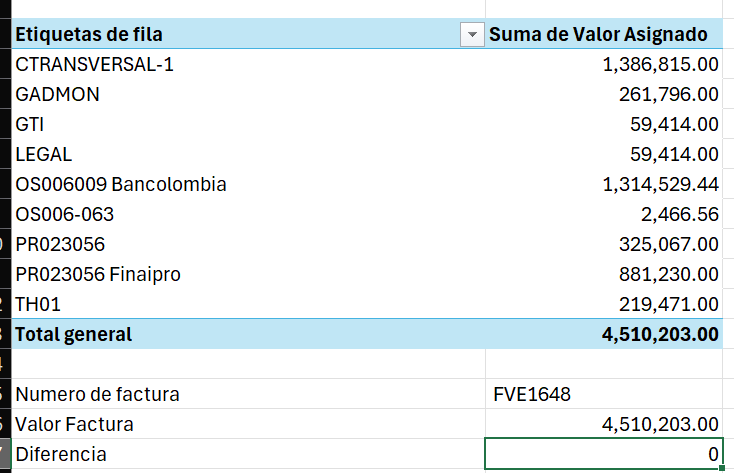
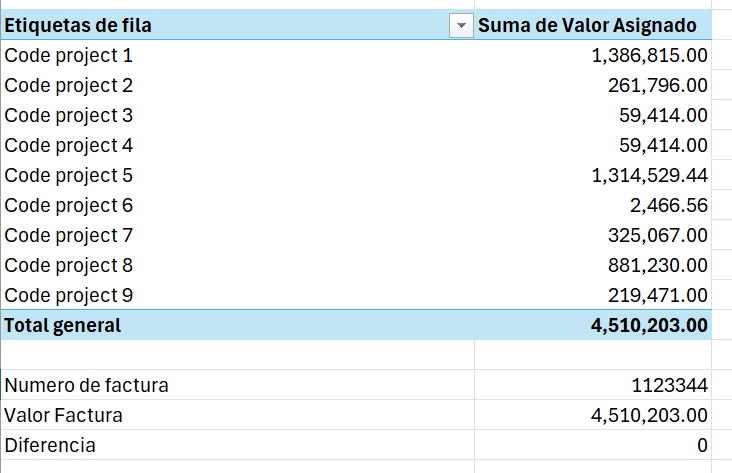
Enhanced README and portfolio presentation

Changed region(s): [[0.0, 0.0, 1.0, 1.0], [0.6311, 0.7696, 0.9918, 1.0]]

diff --git a/README.md b/README.md
@@ -1,3 +1,10 @@
+<<<<<<< HEAD
+=======
+<<<<<<< HEAD
+`````md
+=======
+>>>>>>> 88e778e (Enhanced README and portfolio presentation)
+>>>>>>> 84fb516 (Enhanced README and portfolio presentation)
 # Technology Cost Allocation Automation
 
 ## Overview
@@ -11,6 +18,7 @@ The solution automated the allocation of cybersecurity, backup, monitoring, emai
 ## Business Context
 
 The organization managed multiple technology services and software licensing agreements, including cybersecurity, backup, monitoring, email security, and managed services.
+<<<<<<< HEAD
 
 Invoice validation and cost allocation activities were performed manually using multiple spreadsheets, requiring significant analyst effort and introducing operational risks associated with data entry, calculation errors, and inconsistent cost center assignments.
 
@@ -99,6 +107,106 @@ The solution supports allocation and validation activities related to:
 
 The solution incorporates multiple governance mechanisms including:
 
+<<<<<<< HEAD
+=======
+- Automated cost allocation rules.
+- Standardized data processing.
+- Cost center validation.
+- Centralized reporting.
+- Allocation traceability.
+- Consolidated technology expenditure visibility.
+- Financial review support.
+- Operational risk reduction.
+=======
+
+Invoice validation and cost allocation activities were performed manually using multiple spreadsheets, requiring significant analyst effort and introducing operational risks associated with data entry, calculation errors, and inconsistent cost center assignments.
+
+The objective of the project was to standardize and automate the allocation process while improving reporting capabilities and financial oversight.
+
+---
+
+## Solution Architecture
+
+```text
+Technology Service Provider
+            │
+            ▼
+     Supplier Invoice
+            │
+            ▼
+  Technology Inventory Import
+            │
+            ▼
+ User & Cost Center Mapping
+            │
+            ▼
+ Automated Allocation Engine
+            │
+            ▼
+ Data Quality Controls
+            │
+            ▼
+ Multi-Service Consolidation
+            │
+            ▼
+ Prefactura Generation
+            │
+            ▼
+ Cost Center Summary
+            │
+            ▼
+ Financial Validation
+```
+
+---
+
+## Project Outcomes
+
+* Reduced invoice validation effort from approximately 60 minutes to 10 minutes.
+* Improved allocation accuracy through automated cost center mapping.
+* Reduced dependency on manual calculations.
+* Increased traceability of technology-related expenses.
+* Improved financial governance and reporting consistency.
+* Consolidated multiple technology services into a unified reporting model.
+* Reduced operational errors associated with manual processing.
+* Improved visibility of technology spending by cost center.
+
+---
+
+## Services Included
+
+The solution supports allocation and validation activities related to:
+
+* Sophos Advanced Protection
+* Sophos Encryption
+* Sophos Email Security
+* COVE Backup
+* Remote Monitoring and Management (RMM)
+* Professional Services
+* Technology Assets under Leasing/Renting Models
+
+---
+
+## Key Technologies
+
+* Microsoft Excel
+* VBA (Visual Basic for Applications)
+* Cost Center Allocation
+* IT Asset Management
+* Financial Controls
+* Reporting Automation
+* Process Automation
+* Data Quality Controls
+* Technology Governance
+* Internal Controls
+
+---
+
+## Governance and Control Features
+
+The solution incorporates multiple governance mechanisms including:
+
+>>>>>>> 84fb516 (Enhanced README and portfolio presentation)
 * Automated cost allocation rules.
 * Standardized data processing.
 * Cost center validation.
@@ -107,11 +215,27 @@ The solution incorporates multiple governance mechanisms including:
 * Consolidated technology expenditure visibility.
 * Financial review support.
 * Operational risk reduction.
+<<<<<<< HEAD
+=======
+>>>>>>> 88e778e (Enhanced README and portfolio presentation)
+>>>>>>> 84fb516 (Enhanced README and portfolio presentation)
 
 ---
 
 ## Metrics
 
+<<<<<<< HEAD
+=======
+<<<<<<< HEAD
+| Metric | Before | After |
+|----------|----------|----------|
+| Invoice Validation Time | 60 Minutes | 10 Minutes |
+| Allocation Process | Manual | Automated |
+| Consolidation | Multiple Files | Centralized |
+| Traceability | Limited | Improved |
+| Reporting | Manual | Automated |
+=======
+>>>>>>> 84fb516 (Enhanced README and portfolio presentation)
 | Metric                  | Before         | After       |
 | ----------------------- | -------------- | ----------- |
 | Invoice Validation Time | 60 Minutes     | 10 Minutes  |
@@ -119,6 +243,10 @@ The solution incorporates multiple governance mechanisms including:
 | Consolidation           | Multiple Files | Centralized |
 | Traceability            | Limited        | Improved    |
 | Reporting               | Manual         | Automated   |
+<<<<<<< HEAD
+=======
+>>>>>>> 88e778e (Enhanced README and portfolio presentation)
+>>>>>>> 84fb516 (Enhanced README and portfolio presentation)
 
 ---
 
@@ -179,12 +307,27 @@ technology-cost-allocation-automation
 
 Additional project documentation can be found in:
 
+<<<<<<< HEAD
+=======
+<<<<<<< HEAD
+- Business Case
+- Risk Assessment
+- Controls Matrix
+- Lessons Learned
+- Process Architecture Diagrams
+- Performance Metrics
+=======
+>>>>>>> 84fb516 (Enhanced README and portfolio presentation)
 * Business Case
 * Risk Assessment
 * Controls Matrix
 * Lessons Learned
 * Process Architecture Diagrams
 * Performance Metrics
+<<<<<<< HEAD
+=======
+>>>>>>> 88e778e (Enhanced README and portfolio presentation)
+>>>>>>> 84fb516 (Enhanced README and portfolio presentation)
 
 ---
 
@@ -192,6 +335,21 @@ Additional project documentation can be found in:
 
 This project demonstrates practical experience in:
 
+<<<<<<< HEAD
+=======
+<<<<<<< HEAD
+- Process Automation
+- IT Governance
+- Financial Governance
+- Operational Controls
+- Risk Reduction
+- Data Quality Management
+- Reporting Automation
+- Technology Asset Management
+- Continuous Improvement
+- Business Process Analysis
+=======
+>>>>>>> 84fb516 (Enhanced README and portfolio presentation)
 * Process Automation
 * IT Governance
 * Financial Governance
@@ -202,6 +360,10 @@ This project demonstrates practical experience in:
 * Technology Asset Management
 * Continuous Improvement
 * Business Process Analysis
+<<<<<<< HEAD
+=======
+>>>>>>> 88e778e (Enhanced README and portfolio presentation)
+>>>>>>> 84fb516 (Enhanced README and portfolio presentation)
 
 ---
 
@@ -216,4 +378,135 @@ IT Governance, GRC, Financial Governance, Cost Allocation, Internal Controls, VB
 All screenshots, data samples, organizational references, and financial information have been anonymized to protect confidential and proprietary information.
 
 This repository focuses on the project methodology, governance controls, automation approach, and business outcomes rather than organizational data.
+<<<<<<< HEAD
 """
+=======
+<<<<<<< HEAD
+````
+
+## Governance and Control Features
+
+The solution incorporates multiple governance mechanisms including:
+
+- Automated cost allocation rules.
+- Standardized data processing.
+- Cost center validation.
+- Centralized reporting.
+- Allocation traceability.
+- Consolidated technology expenditure visibility.
+- Financial review support.
+- Operational risk reduction.
+
+---
+
+## Metrics
+
+| Metric | Before | After |
+|----------|----------|----------|
+| Invoice Validation Time | 60 Minutes | 10 Minutes |
+| Allocation Process | Manual | Automated |
+| Consolidation | Multiple Files | Centralized |
+| Traceability | Limited | Improved |
+| Reporting | Manual | Automated |
+
+---
+
+## Solution Screenshots
+
+### License Inventory Source
+
+![License Inventory](screenshots/01-license-inventory-source.png)
+
+### Cost Center Allocation Rules
+
+![Cost Center Allocation](screenshots/02-cost-center-allocation-rules.png)
+
+### User and Cost Center Mapping
+
+![User Mapping](screenshots/03-user-cost-center-mapping.png)
+
+### Consolidated Services View
+
+![Consolidated Services](screenshots/04-consolidated-technology-services.png)
+
+### Prefactura Generation
+
+![Prefactura Generation](screenshots/05-prefactura-generation.png)
+
+### Executive Cost Center Summary
+
+![Executive Summary](screenshots/06-executive-cost-center-summary.png)
+
+---
+
+## Repository Structure
+
+```text
+technology-cost-allocation-automation
+│
+├── README.md
+│
+├── docs
+│   ├── business-case.md
+│   ├── risk-assessment.md
+│   ├── controls-matrix.md
+│   └── lessons-learned.md
+│
+├── diagrams
+│   ├── as-is.md
+│   └── to-be.md
+│
+├── evidence
+│   └── metrics.md
+│
+└── screenshots
+```
+
+---
+
+## Documentation
+
+Additional project documentation can be found in:
+
+- Business Case
+- Risk Assessment
+- Controls Matrix
+- Lessons Learned
+- Process Architecture Diagrams
+- Performance Metrics
+
+---
+
+## Professional Competencies Demonstrated
+
+This project demonstrates practical experience in:
+
+- Process Automation
+- IT Governance
+- Financial Governance
+- Operational Controls
+- Risk Reduction
+- Data Quality Management
+- Reporting Automation
+- Technology Asset Management
+- Continuous Improvement
+- Business Process Analysis
+
+---
+
+## Keywords
+
+IT Governance, GRC, Financial Governance, Cost Allocation, Internal Controls, VBA, Excel Automation, Process Improvement, Technology Governance, Reporting Automation, IT Asset Management, Operational Risk, Continuous Improvement, Business Process Automation.
+
+---
+
+## Disclaimer
+
+All screenshots, data samples, organizational references, and financial information have been anonymized to protect confidential and proprietary information.
+
+This repository focuses on the project methodology, governance controls, automation approach, and business outcomes rather than organizational data.
+`````
+=======
+"""
+>>>>>>> 88e778e (Enhanced README and portfolio presentation)
+>>>>>>> 84fb516 (Enhanced README and portfolio presentation)